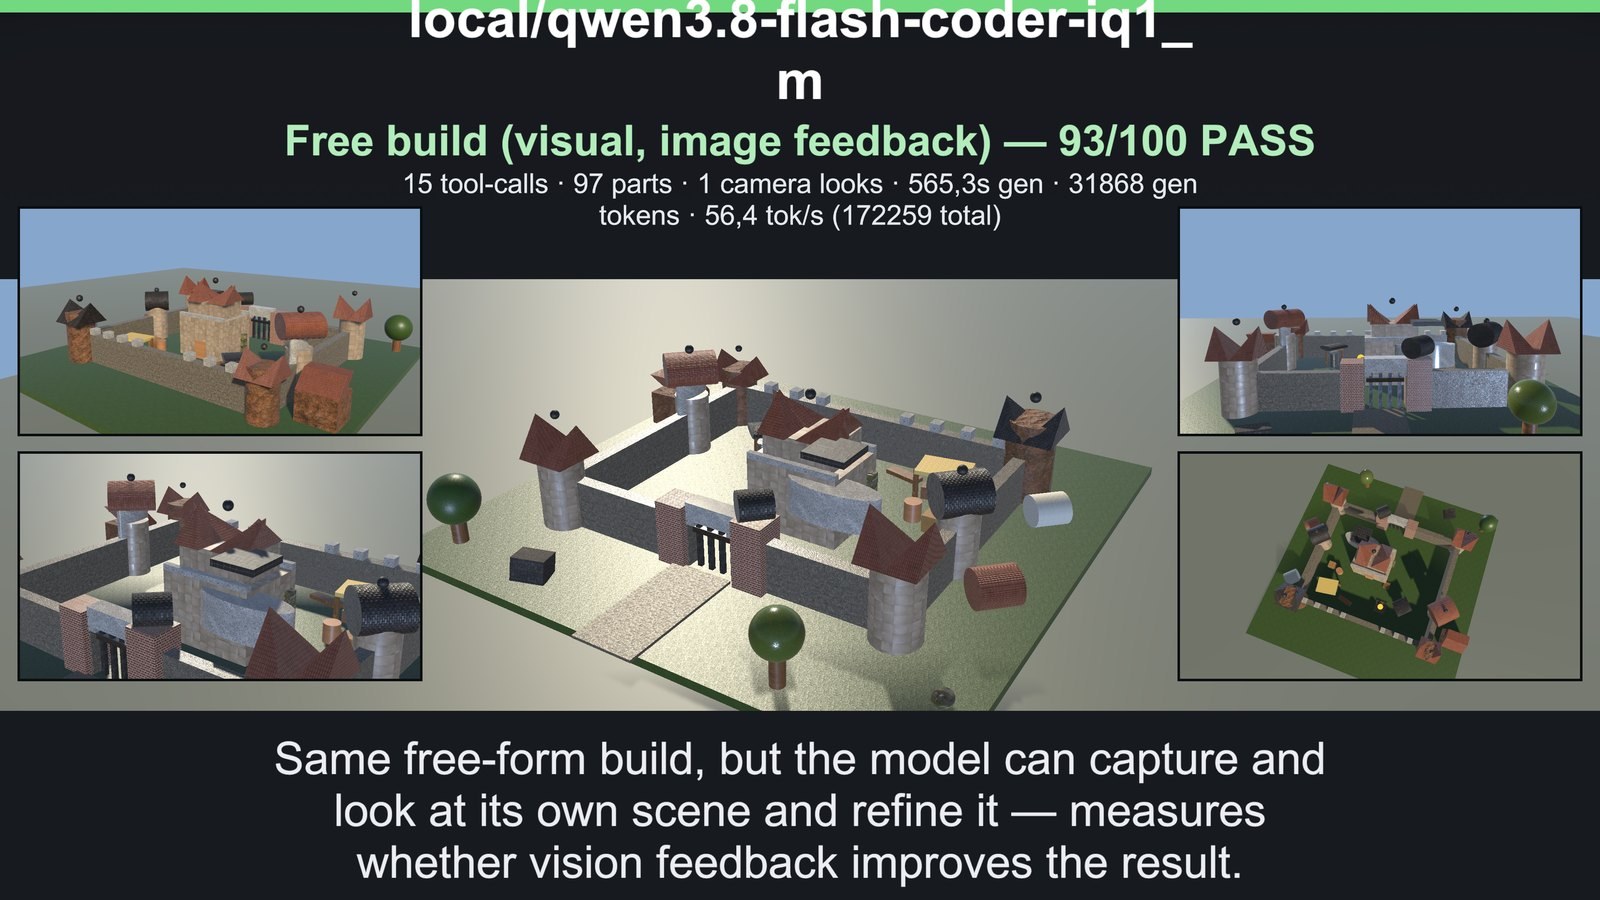
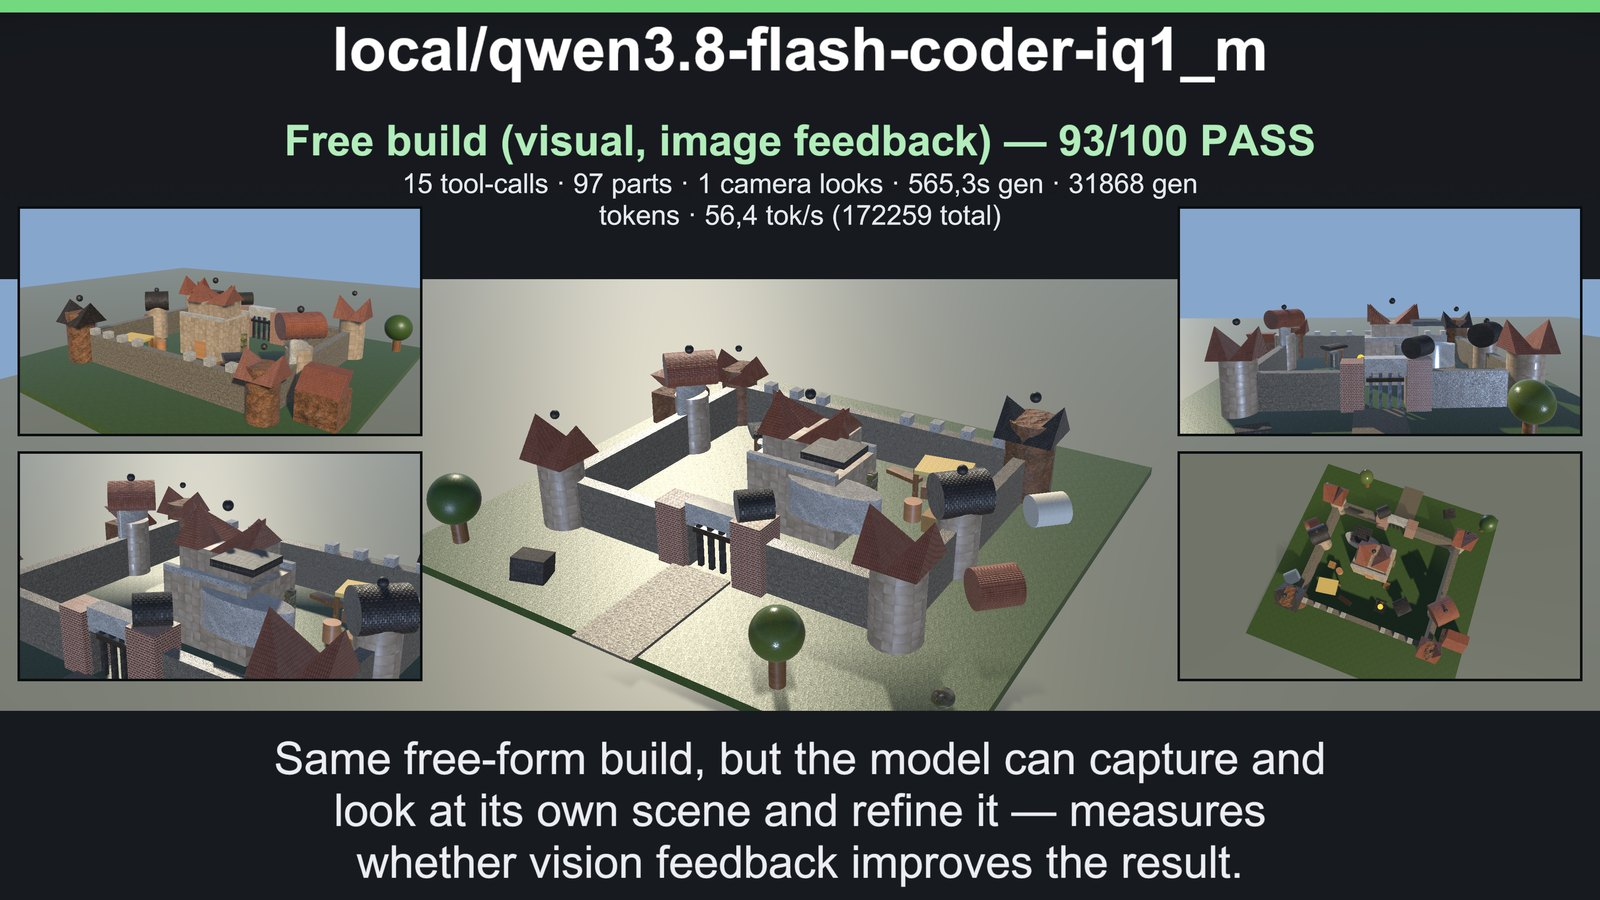
fix(benchmark): re-render Luna and qwen G6 heroes, fit long hero titles
The Luna hero had three of four inset panels blank (render-texture readback
failed under GPU pressure in the parallel run) and the qwen title wrapped
mid-word. Both heroes are re-rendered from the recorded _g6_replay.lua, so no
model calls are made and the scores are unchanged.

- FitHeroTitle: one line up to 44 characters with the size scaled to a shared
  width budget, wrapped smaller text only beyond that; regression test added.
- Recapture tooling: banner text from COREAI_BENCHMARK_RECAPTURE_TEXT_FILE and a
  replay-based CaptureSavedCastleReplay_ForReport that regenerates runtime
  textures (prefabs from older harness versions keep colours only).
- Replace the two hero PNGs in Docs/BenchmarkRuns/2026-10-15 and the README
  castle gallery JPEGs.

Changed region(s): [[0.1875, 0.0, 0.8125, 0.1244]]

diff --git a/Assets/CoreAIBenchmark/Tests/PlayMode/Benchmarks/GameCreationBenchmarkPlayModeTests.cs b/Assets/CoreAIBenchmark/Tests/PlayMode/Benchmarks/GameCreationBenchmarkPlayModeTests.cs
@@ -860,7 +860,12 @@ namespace CoreAI.Tests.PlayMode.Benchmarks
         }
 
 #if UNITY_EDITOR
-        /// <summary>Retakes a G6 hero image from the saved model-authored prefab without calling the provider.</summary>
+        /// <summary>
+        /// Retakes a G6 hero image from the saved model-authored prefab without calling the provider. An optional
+        /// UTF-8 file named by <c>COREAI_BENCHMARK_RECAPTURE_TEXT_FILE</c> supplies the banner text so the retake
+        /// matches the original hero: line 1 the score line, line 2 the stats line, line 3 the caption (a blank
+        /// or missing line keeps the default).
+        /// </summary>
         [UnityTest]
         [Explicit("Set COREAI_BENCHMARK_RECAPTURE_PREFAB and COREAI_BENCHMARK_RECAPTURE_OUTPUT")]
         public IEnumerator CaptureSavedCastlePrefab_ForReport()
@@ -881,9 +886,11 @@ namespace CoreAI.Tests.PlayMode.Benchmarks
                 byte[] png = null;
                 string model = Environment.GetEnvironmentVariable("COREAI_TEST_MODEL") ?? prefab.name;
                 int parts = world.Root.GetComponentsInChildren<Renderer>(true).Length;
+                string[] text = ReadRecaptureText();
                 yield return CaptureSceneScreenshot(world, model,
-                    "Free build (visual) — saved scene", "Model-authored G6 castle captured from its saved prefab.",
-                    true, $"{parts} rendered parts", image => png = image);
+                    RecaptureLine(text, 0, "Free build (visual) — saved scene"),
+                    RecaptureLine(text, 2, "Model-authored G6 castle captured from its saved prefab."),
+                    true, RecaptureLine(text, 1, $"{parts} rendered parts"), image => png = image);
                 Assert.IsNotNull(png, "The saved scene must render a PNG.");
                 File.WriteAllBytes(outputPath, png);
             }
@@ -892,7 +899,86 @@ namespace CoreAI.Tests.PlayMode.Benchmarks
                 world.Cleanup();
             }
         }
+
+        /// <summary>
+        /// Retakes a G6 hero image by replaying the report's <c>_g6_replay.lua</c> in a fresh Roblox-API world, so the
+        /// runtime-generated textures and materials look as they did in the run (a saved prefab keeps only colours).
+        /// Reads <c>COREAI_BENCHMARK_RECAPTURE_LUA</c>, <c>COREAI_BENCHMARK_RECAPTURE_OUTPUT</c>, the optional
+        /// <c>COREAI_BENCHMARK_RECAPTURE_TEXT_FILE</c> described on <see cref="CaptureSavedCastlePrefab_ForReport"/> and
+        /// <c>COREAI_TEST_MODEL</c> for the headline.
+        /// </summary>
+        [UnityTest]
+        [Explicit("Set COREAI_BENCHMARK_RECAPTURE_LUA and COREAI_BENCHMARK_RECAPTURE_OUTPUT")]
+        public IEnumerator CaptureSavedCastleReplay_ForReport()
+        {
+            string luaPath = Environment.GetEnvironmentVariable("COREAI_BENCHMARK_RECAPTURE_LUA");
+            string outputPath = Environment.GetEnvironmentVariable("COREAI_BENCHMARK_RECAPTURE_OUTPUT");
+            if (string.IsNullOrWhiteSpace(luaPath) || string.IsNullOrWhiteSpace(outputPath))
+            {
+                Assert.Ignore("No castle replay requested for screenshot recapture.");
+            }
+
+            Assert.IsTrue(File.Exists(luaPath), "The requested replay script must exist.");
+            VisualBenchmarkWorldExecutor world = new() { HideLabels = true };
+            CoreAISettingsAsset settings = ScriptableObject.CreateInstance<CoreAISettingsAsset>();
+            RbxBenchmarkWorld rbx = null;
+            try
+            {
+                rbx = new RbxBenchmarkWorld(settings, world.Root);
+                Assert.IsTrue(rbx.TryEvaluateLua(File.ReadAllText(luaPath, System.Text.Encoding.UTF8), out string output),
+                    "The replay must finish synchronously; output: " + output);
+                int parts = rbx.Measure().Parts;
+                Assert.Greater(parts, 0, "The replay must build at least one castle part.");
+                yield return null;
+                byte[] png = null;
+                string model = Environment.GetEnvironmentVariable("COREAI_TEST_MODEL") ?? "replay";
+                string[] text = ReadRecaptureText();
+                yield return CaptureSceneScreenshot(world, model,
+                    RecaptureLine(text, 0, "Free build (visual) — replayed scene"),
+                    RecaptureLine(text, 2, "Model-authored G6 castle replayed from its recorded Lua."),
+                    true, RecaptureLine(text, 1, $"{parts} parts"), image => png = image);
+                Assert.IsNotNull(png, "The replayed scene must render a PNG.");
+                File.WriteAllBytes(outputPath, png);
+            }
+            finally
+            {
+                rbx?.Dispose();
+                world.Cleanup();
+                UnityEngine.Object.DestroyImmediate(settings);
+            }
+        }
+
+        private static string[] ReadRecaptureText()
+        {
+            string file = Environment.GetEnvironmentVariable("COREAI_BENCHMARK_RECAPTURE_TEXT_FILE");
+            return string.IsNullOrWhiteSpace(file) || !File.Exists(file)
+                ? Array.Empty<string>()
+                : File.ReadAllLines(file, System.Text.Encoding.UTF8);
+        }
+
+        private static string RecaptureLine(string[] lines, int index, string fallback)
+        {
+            return index < lines.Length && !string.IsNullOrWhiteSpace(lines[index]) ? lines[index].Trim() : fallback;
+        }
 #endif
+
+        [Test]
+        public void HeroTitle_KeepsLongLocalModelLabelOnOneLine()
+        {
+            float size = FitHeroTitle("local/qwen3.8-flash-coder-iq1_m", out string text);
+            Assert.AreEqual("local/qwen3.8-flash-coder-iq1_m", text,
+                "A 31-character label fits one line; it used to wrap to a lone 'm'.");
+            Assert.That(size, Is.GreaterThan(0.0086f), "The label must not be set smaller than the old wrapped tier.");
+            Assert.That(size * text.Length, Is.LessThanOrEqualTo(0.30001f), "The line must stay inside the width budget.");
+
+            Assert.AreEqual(0.0112f, FitHeroTitle("codex/GPT-6.1 Sol", out string shortText), 1e-6f);
+            Assert.AreEqual("codex/GPT-6.1 Sol", shortText);
+
+            string veryLong = "provider/some-extremely-long-model-identifier-with-many-hyphenated-parts-v2";
+            float wrapped = FitHeroTitle(veryLong, out string wrappedText);
+            Assert.That(wrappedText, Does.Contain("\n"), "A name over the single-line limit wraps.");
+            Assert.AreEqual(0.0064f, wrapped, 1e-6f);
+        }
 
         [Test]
         public void StopAtRetryBoundary_ClearsUnretriedHardFailureBeforeScoring()

diff --git a/Assets/CoreAIBenchmark/Tests/PlayMode/Benchmarks/GameCreationBenchmarkHarness.cs b/Assets/CoreAIBenchmark/Tests/PlayMode/Benchmarks/GameCreationBenchmarkHarness.cs
@@ -2961,11 +2961,10 @@ namespace CoreAI.Tests.PlayMode.Benchmarks
                     AddQuad(p, new Vector3(0f, halfH - 0.012f, zb - 0.01f),
                         new Vector2(fullW, 0.024f), verdict);
                     // Model name is the headline (so each scene/castle image says which model built it),
-                    // with the scenario + score + verdict as the line below. Long hyphenated model ids are
-                    // wrapped (and shrunk) so they never overflow the banner.
-                    string m = model ?? "";
-                    float mSize = m.Length > 42 ? 0.0064f : m.Length > 26 ? 0.0086f : 0.0112f;
-                    AddCameraText(p, WrapModel(m, 30), new Vector3(0f, halfH - 0.085f, zb - 0.02f),
+                    // with the scenario + score + verdict as the line below. Long model ids shrink to stay on
+                    // one line and only the very long ones wrap, so they never overflow the banner.
+                    float mSize = FitHeroTitle(model, out string mText);
+                    AddCameraText(p, mText, new Vector3(0f, halfH - 0.085f, zb - 0.02f),
                         mSize, Color.white, true);
                     AddCameraText(p, WrapText(header ?? "", 58), new Vector3(0f, halfH - 0.225f, zb - 0.02f),
                         0.0068f, verdict, true);
@@ -3806,6 +3805,32 @@ namespace CoreAI.Tests.PlayMode.Benchmarks
 
             return sb.ToString();
         }
+
+        /// <summary>
+        /// Picks the headline text and character size for the hero banner. A name up to
+        /// <see cref="HeroTitleSingleLineChars"/> characters stays on one line at the largest size that fits;
+        /// a longer one is wrapped at 30 characters and set small.
+        /// </summary>
+        internal static float FitHeroTitle(string model, out string text)
+        {
+            string m = model ?? "";
+            // WHY: the text width grows with characters x size, and one line at 0.0112 holds about 26
+            // characters (a 30-character name at 0.0086 filled 70% of the banner), so a constant budget keeps
+            // the same fill for every length; the old fixed tiers wrapped a 31-character label to "...iq1_" + "m".
+            if (m.Length <= HeroTitleSingleLineChars)
+            {
+                text = m;
+                return Mathf.Min(HeroTitleMaxSize, HeroTitleWidthBudget / Mathf.Max(1, m.Length));
+            }
+
+            text = WrapModel(m, 30);
+            return HeroTitleWrappedSize;
+        }
+
+        internal const int HeroTitleSingleLineChars = 44;
+        private const float HeroTitleMaxSize = 0.0112f;
+        private const float HeroTitleWidthBudget = 0.30f;
+        private const float HeroTitleWrappedSize = 0.0064f;
 
         /// <summary>Wraps a long model id onto multiple lines, breaking after hyphens/underscores/spaces
         /// (model ids rarely contain spaces), so it never overflows the header banner.</summary>

diff --git a/Assets/CoreAIBenchmark/README.md b/Assets/CoreAIBenchmark/README.md
@@ -214,7 +214,7 @@ Environment shaping is also supported:
 | `COREAI_BENCHMARK_FREEBUILD_SUBJECT` | Swaps only the G6 subject (e.g. `a futuristic city`) into the generic free-build prompt, keeping the standard build/grading scaffold. The generic prompt ends with the same clock note plus subject-neutral pacing (`Complete the main structure during the first half of the budget, then spend the remaining time on secondary structures, surroundings and surface details.`); only the default castle prompt gets the castle-specific pacing (ground, curtain walls, towers, gate and keep first). A subject build is graded without the castle checks, on the subject-neutral signals only (see [G6 grading](#g6-grading)). Also settable from the benchmark window UI field. |
 | `COREAI_BENCHMARK_FREEBUILD_ROUNDTRIPS` | G6 tool-call cap per turn; `0`/unset means the default `1000` (effectively unbounded). Early-ending scored builds can continue in the same scene within the 570-second model time. |
 
-G6 counts and frames rendered Roblox parts, including parts created through `execute_lua`; the hero banner shows the real part count. The saved model-authored prefab is under the ignored `Assets/Benchmark/<target-label>/g6_free_build.prefab`. To retake a hero image from that prefab without contacting the model, set `COREAI_BENCHMARK_RECAPTURE_PREFAB` to its Unity asset path and `COREAI_BENCHMARK_RECAPTURE_OUTPUT` to an absolute PNG path, then run the explicit PlayMode test `CaptureSavedCastlePrefab_ForReport` in the open Editor.
+G6 counts and frames rendered Roblox parts, including parts created through `execute_lua`; the hero banner shows the real part count. The saved model-authored prefab is under the ignored `Assets/Benchmark/<target-label>/g6_free_build.prefab`. To retake a hero image from that prefab without contacting the model, set `COREAI_BENCHMARK_RECAPTURE_PREFAB` to its Unity asset path and `COREAI_BENCHMARK_RECAPTURE_OUTPUT` to an absolute PNG path, then run the explicit PlayMode test `CaptureSavedCastlePrefab_ForReport` in the open Editor. Prefabs saved by older harness versions keep only colour materials, so a prefab retake looks flat. For a full-fidelity retake without contacting the model, set `COREAI_BENCHMARK_RECAPTURE_LUA` to the report's `_g6_replay.lua` and run the explicit PlayMode test `CaptureSavedCastleReplay_ForReport`: it replays the recorded Lua in a fresh benchmark world (runtime textures included) and writes the hero to `COREAI_BENCHMARK_RECAPTURE_OUTPUT`. Both tests read the banner header, stats and caption from `COREAI_BENCHMARK_RECAPTURE_TEXT_FILE` (UTF-8, one line each) when it is set.
 
 A provider `402` or `429` can leave a partial castle. Such a result records the provider failure and is not a comparable model-quality score; retain the saved scene and rerun when the provider quota is available.
 When G6 reaches its time limit during a streaming turn, the benchmark counts completed tool calls from lifecycle events and records the cut turn in the transcript (`CUT:`) with the time it ran. That time is part of the generation time, so tok/s divides tokens and time over the same turns. Because the provider never delivered usage for the cut turn, the run reports `TokensFromProvider = false`: report totals carry `~`, and the hero banner reads `partial token estimate ~N gen tokens · ~X tok/s`. Tool calls on the process-wide lifecycle hook are attributed by agent role and by the trace id each benchmark turn carries (`bench-<scenario>-<run>-t<n>`), so an orphaned call from an earlier scenario is not counted.

diff --git a/Assets/CoreAiUnity/CHANGELOG.md b/Assets/CoreAiUnity/CHANGELOG.md
@@ -4,6 +4,14 @@ Unity host: **CoreAI.Source** build, EditMode / PlayMode tests, Editor menus, do
 
 ## [Unreleased]
 
+### Fixed
+
+- Benchmark hero banner fits long local model labels on one line instead of wrapping mid-word; the width budget is shared by `FitHeroTitle` and covered by a regression test.
+
+### Added
+
+- Hero retake tooling: `CaptureSavedCastlePrefab_ForReport` accepts the banner header, stats and caption from a UTF-8 text file (`COREAI_BENCHMARK_RECAPTURE_TEXT_FILE`), and the new explicit `CaptureSavedCastleReplay_ForReport` re-renders a hero by replaying the recorded `_g6_replay.lua` (`COREAI_BENCHMARK_RECAPTURE_LUA`) so runtime textures are regenerated without contacting the model.
+
 ## [7.53.0] - 2026-10-16
 
 ### Added
